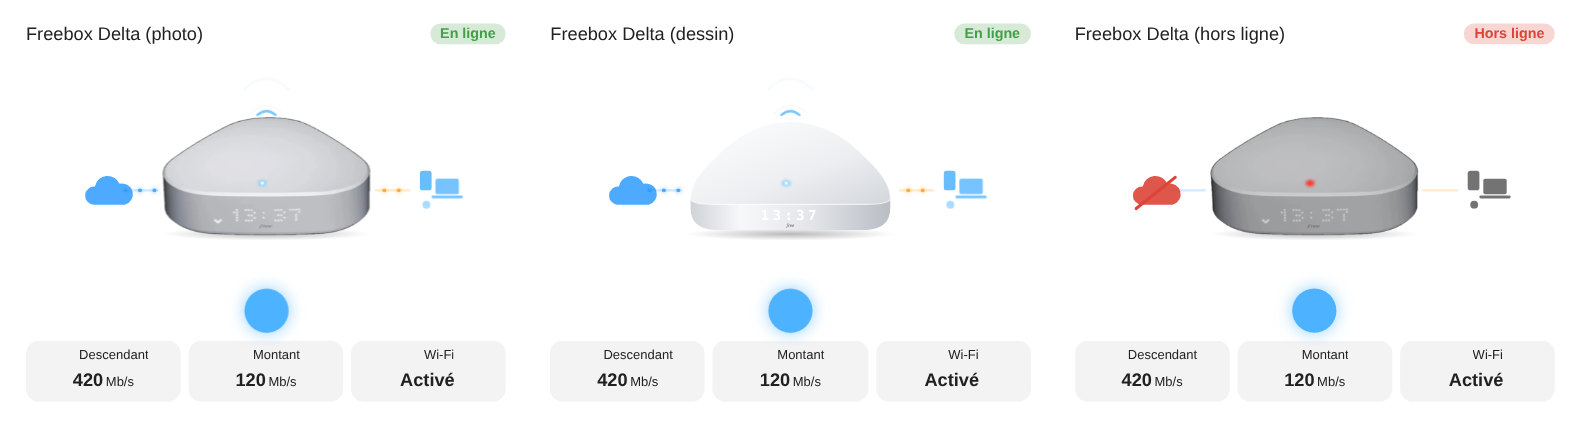
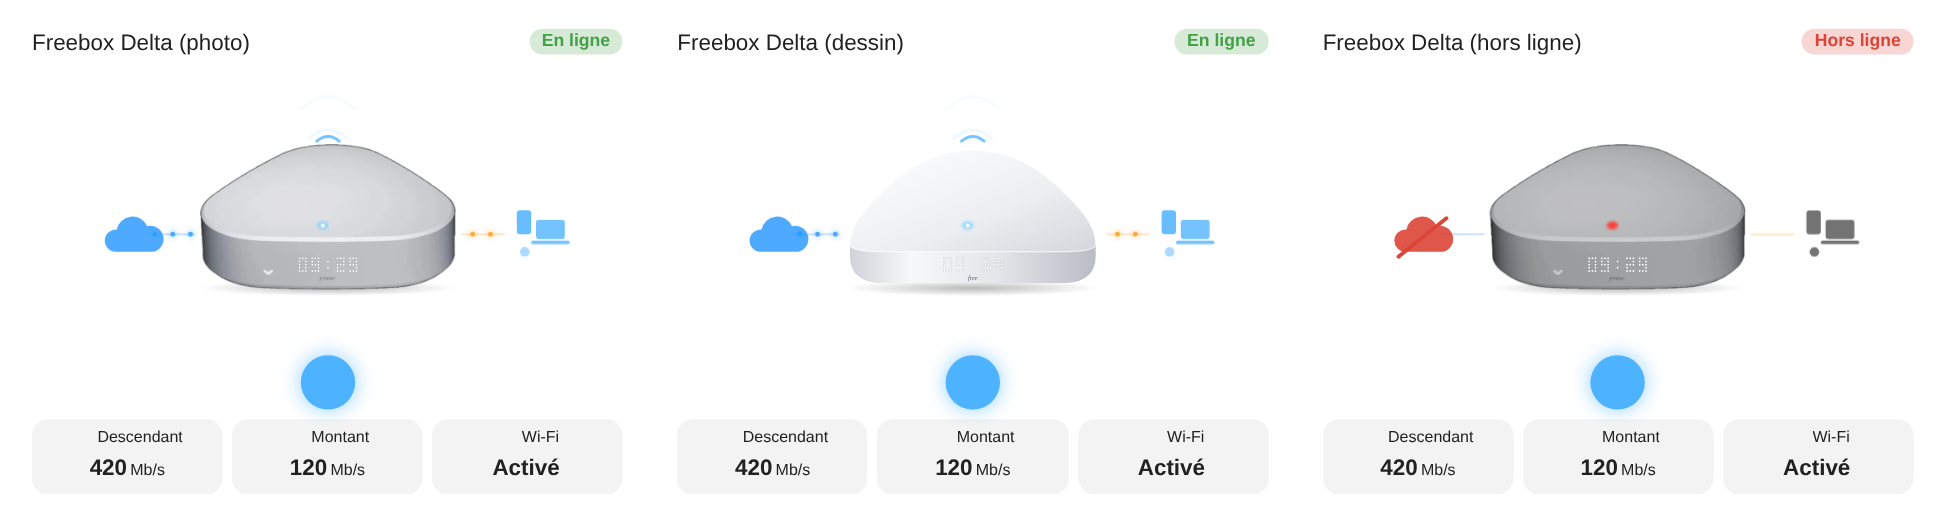
feat(internet-box): Freebox Delta dot-matrix display shows the real time
Refs #572. The fixed 13:37 of the photo is erased and replaced by a 3x5 dot
clock (HH:MM, Home Assistant time zone) refreshed every 15 s.

Claude-Session: https://claude.ai/code/session_01QpEf3XYvgfuJdkgJvTaaSo

diff --git a/dist/cards/internet-box.js b/dist/cards/internet-box.js
@@ -253,6 +253,20 @@
 
   /* Chaque modèle : photo (px de la photo = repère du dessin), emplacement dans la carte (box = x, y, w, h sur 300 × 180),
      point d'émission des ondes Wi-Fi, LED, et dessin SVG vectoriel dans le même repère que la photo. */
+  // afficheur à points de la Freebox Delta : l'heure réelle (fuseau de Home Assistant), police 3 × 5 points
+  const DOTS = { 0: '111101101101111', 1: '010110010010111', 2: '111001111100111', 3: '111001111001111', 4: '101101111001001', 5: '111100111001111', 6: '111100111101111', 7: '111001001010010', 8: '111101111101111', 9: '111101111001111' };
+  const clockDots = (txt, cx, cy, p) => {
+    const cols = [], col = (bits) => cols.push(bits); // une colonne = 5 bits (haut → bas)
+    [...txt].forEach((ch, i) => {
+      if (ch === ':') { cols.push(0, 0); col(0b01010); cols.push(0, 0); return; }
+      const g = DOTS[ch]; if (!g) return;
+      for (let x = 0; x < 3; x++) { let b = 0; for (let y = 0; y < 5; y++) if (g[y * 3 + x] === '1') b |= 1 << (4 - y); col(b); }
+      if (i < txt.length - 1 && txt[i + 1] !== ':' && ch !== ':') cols.push(0);
+    });
+    const x0 = cx - (cols.length - 1) * p / 2, y0 = cy - 2 * p;
+    return cols.map((b, i) => [0, 1, 2, 3, 4].filter((y) => b & (1 << (4 - y))).map((y) => `<circle cx="${(x0 + i * p).toFixed(1)}" cy="${(y0 + y * p).toFixed(1)}" r="2.3"/>`).join('')).join('');
+  };
+
   const MODELS = {
     freebox_pop: {
       label: 'Freebox Pop', pw: 601, ph: 335, box: [70, 56, 160, 89], wave: [150, 52],
@@ -284,13 +298,12 @@
     // freebox_delta : Freebox Delta (Free), photo détourée ; le voyant s'allume sur le symbole Wi-Fi du dôme
     freebox_delta: {
       label: 'Freebox Delta', pw: 600, ph: 341, box: [70, 54, 160, 91], wave: [150, 50],
[1 lines of base64/hex data omitted]
-      led: `<ellipse class="ledglow" cx="287.9" cy="191.0" rx="14" ry="10"/><circle class="led" cx="287.9" cy="191.0" r="4"/>`,
[1 lines of base64/hex data omitted]
+      led: `<g class="dclock" data-cx="300" data-cy="282.8" data-p="7.4"></g><ellipse class="ledglow" cx="287.9" cy="191.0" rx="14" ry="10"/><circle class="led" cx="287.9" cy="191.0" r="4"/>`,
       svg: `
         <path d="M12 232 V262 Q12 322 80 326 H520 Q588 322 588 262 V232 Z" fill="url(#ib-fbside)"/>
         <path d="M300 14 Q420 14 520 120 Q592 188 588 238 Q580 252 520 252 H80 Q20 252 12 238 Q8 188 80 120 Q180 14 300 14 Z" fill="url(#ib-fbtop)"/>
         <path d="M300 14 Q420 14 520 120 Q592 188 588 238 Q580 252 520 252 H80 Q20 252 12 238 Q8 188 80 120 Q180 14 300 14 Z" fill="none" stroke="#fff" stroke-opacity=".7" stroke-width="3"/>
-        <text x="300" y="296" text-anchor="middle" fill="#fff" font-family="ui-monospace,Menlo,Consolas,monospace" font-weight="700" font-size="40" letter-spacing="10">13:37</text>
         <text x="300" y="318" text-anchor="middle" fill="#5a5c63" font-family="Georgia,'Times New Roman',serif" font-style="italic" font-size="15">free</text>`,
     },
     router: {
@@ -435,6 +448,7 @@ svg{display:block;width:100%;max-width:calc(300px * var(--illus-scale,1));height
 .photo{transition:filter .6s}
 .offline .photo,.unavailable .photo{filter:saturate(.6) brightness(.85)}
 .unavailable .box{opacity:.6}
+.dclock circle{fill:#fff;filter:drop-shadow(0 0 1.2px rgba(60,66,76,.55))}
 .ledglow{fill:var(--ledc,#fff);opacity:0;filter:blur(3px);transition:opacity .6s}
 .led{fill:var(--ledc,#fff);opacity:0;filter:drop-shadow(0 0 3px var(--ledc,#fff));transition:opacity .6s,fill .4s}
 .online .led{--ledc:#f4fbff;opacity:1}.online .ledglow{--ledc:#7fd0ff;opacity:.85;animation:ibled 3.2s ease-in-out infinite}
@@ -554,6 +568,17 @@ ha-card.compact{display:flex;flex-direction:column;padding:6px}
       if (this._hass) this._render();
     }
     set hass(h) { const ch = this._c && window.applianceChanged(this, h, this._c); this._hass = h; if (ch) this._render(); }
+    connectedCallback() { this._clockTick = setInterval(() => this._clock(), 15000); this._clock(); }
+    disconnectedCallback() { clearInterval(this._clockTick); }
+    // heure de l'afficheur à points (modèles qui en ont un) : HH:MM, fuseau de Home Assistant
+    _clock() {
+      const g = this._root && this._root.querySelector('.dclock'); if (!g) return;
+      let t;
+      try { t = new Intl.DateTimeFormat('en-GB', { hour: '2-digit', minute: '2-digit', hour12: false, timeZone: (this._hass && this._hass.config && this._hass.config.time_zone) || undefined }).format(new Date()); }
+      catch (e) { const d = new Date(); t = `${String(d.getHours()).padStart(2, '0')}:${String(d.getMinutes()).padStart(2, '0')}`; }
+      if (g.dataset.t === t) return;
+      g.dataset.t = t; g.innerHTML = clockDots(t, Number(g.dataset.cx), Number(g.dataset.cy), Number(g.dataset.p));
+    }
     getCardSize() { return 5; }
     getGridOptions() { return { columns: 12, min_columns: 3, rows: 'auto', min_rows: 1 }; }
 
@@ -622,6 +647,7 @@ ha-card.compact{display:flex;flex-direction:column;padding:6px}
       if (!this._built || this._model !== MODELS[modelKey(this._c.model)] || this._drawing !== (!MODELS[modelKey(this._c.model)].img || /^(svg|drawing|dessin)$/i.test(String(this._c.illustration || '')))) this._build();
       const c = this._c, r = this._root, card = this._card, m = this._model;
       const st = this._state();
+      this._clock();
       const wifiS = this._st(c.entity_wifi), wifiOn = !wifiS || String(wifiS.state).toLowerCase() === 'on';
       card.className = `${st}${wifiOn ? ' wifion' : ''}${c.animations === false ? ' noanim' : ''}${c.compact === true ? ' compact' : ''}`;
 

diff --git a/src/cards/internet-box.js b/src/cards/internet-box.js
@@ -36,6 +36,20 @@
 
   /* Chaque modèle : photo (px de la photo = repère du dessin), emplacement dans la carte (box = x, y, w, h sur 300 × 180),
      point d'émission des ondes Wi-Fi, LED, et dessin SVG vectoriel dans le même repère que la photo. */
+  // afficheur à points de la Freebox Delta : l'heure réelle (fuseau de Home Assistant), police 3 × 5 points
+  const DOTS = { 0: '111101101101111', 1: '010110010010111', 2: '111001111100111', 3: '111001111001111', 4: '101101111001001', 5: '111100111001111', 6: '111100111101111', 7: '111001001010010', 8: '111101111101111', 9: '111101111001111' };
+  const clockDots = (txt, cx, cy, p) => {
+    const cols = [], col = (bits) => cols.push(bits); // une colonne = 5 bits (haut → bas)
+    [...txt].forEach((ch, i) => {
+      if (ch === ':') { cols.push(0, 0); col(0b01010); cols.push(0, 0); return; }
+      const g = DOTS[ch]; if (!g) return;
+      for (let x = 0; x < 3; x++) { let b = 0; for (let y = 0; y < 5; y++) if (g[y * 3 + x] === '1') b |= 1 << (4 - y); col(b); }
+      if (i < txt.length - 1 && txt[i + 1] !== ':' && ch !== ':') cols.push(0);
+    });
+    const x0 = cx - (cols.length - 1) * p / 2, y0 = cy - 2 * p;
+    return cols.map((b, i) => [0, 1, 2, 3, 4].filter((y) => b & (1 << (4 - y))).map((y) => `<circle cx="${(x0 + i * p).toFixed(1)}" cy="${(y0 + y * p).toFixed(1)}" r="2.3"/>`).join('')).join('');
+  };
+
   const MODELS = {
     freebox_pop: {
       label: 'Freebox Pop', pw: 601, ph: 335, box: [70, 56, 160, 89], wave: [150, 52],
@@ -67,13 +81,12 @@
     // freebox_delta : Freebox Delta (Free), photo détourée ; le voyant s'allume sur le symbole Wi-Fi du dôme
     freebox_delta: {
       label: 'Freebox Delta', pw: 600, ph: 341, box: [70, 54, 160, 91], wave: [150, 50],
[1 lines of base64/hex data omitted]
-      led: `<ellipse class="ledglow" cx="287.9" cy="191.0" rx="14" ry="10"/><circle class="led" cx="287.9" cy="191.0" r="4"/>`,
[1 lines of base64/hex data omitted]
+      led: `<g class="dclock" data-cx="300" data-cy="282.8" data-p="7.4"></g><ellipse class="ledglow" cx="287.9" cy="191.0" rx="14" ry="10"/><circle class="led" cx="287.9" cy="191.0" r="4"/>`,
       svg: `
         <path d="M12 232 V262 Q12 322 80 326 H520 Q588 322 588 262 V232 Z" fill="url(#ib-fbside)"/>
         <path d="M300 14 Q420 14 520 120 Q592 188 588 238 Q580 252 520 252 H80 Q20 252 12 238 Q8 188 80 120 Q180 14 300 14 Z" fill="url(#ib-fbtop)"/>
         <path d="M300 14 Q420 14 520 120 Q592 188 588 238 Q580 252 520 252 H80 Q20 252 12 238 Q8 188 80 120 Q180 14 300 14 Z" fill="none" stroke="#fff" stroke-opacity=".7" stroke-width="3"/>
-        <text x="300" y="296" text-anchor="middle" fill="#fff" font-family="ui-monospace,Menlo,Consolas,monospace" font-weight="700" font-size="40" letter-spacing="10">13:37</text>
         <text x="300" y="318" text-anchor="middle" fill="#5a5c63" font-family="Georgia,'Times New Roman',serif" font-style="italic" font-size="15">free</text>`,
     },
     router: {
@@ -218,6 +231,7 @@ svg{display:block;width:100%;max-width:calc(300px * var(--illus-scale,1));height
 .photo{transition:filter .6s}
 .offline .photo,.unavailable .photo{filter:saturate(.6) brightness(.85)}
 .unavailable .box{opacity:.6}
+.dclock circle{fill:#fff;filter:drop-shadow(0 0 1.2px rgba(60,66,76,.55))}
 .ledglow{fill:var(--ledc,#fff);opacity:0;filter:blur(3px);transition:opacity .6s}
 .led{fill:var(--ledc,#fff);opacity:0;filter:drop-shadow(0 0 3px var(--ledc,#fff));transition:opacity .6s,fill .4s}
 .online .led{--ledc:#f4fbff;opacity:1}.online .ledglow{--ledc:#7fd0ff;opacity:.85;animation:ibled 3.2s ease-in-out infinite}
@@ -337,6 +351,17 @@ ha-card.compact{display:flex;flex-direction:column;padding:6px}
       if (this._hass) this._render();
     }
     set hass(h) { const ch = this._c && window.applianceChanged(this, h, this._c); this._hass = h; if (ch) this._render(); }
+    connectedCallback() { this._clockTick = setInterval(() => this._clock(), 15000); this._clock(); }
+    disconnectedCallback() { clearInterval(this._clockTick); }
+    // heure de l'afficheur à points (modèles qui en ont un) : HH:MM, fuseau de Home Assistant
+    _clock() {
+      const g = this._root && this._root.querySelector('.dclock'); if (!g) return;
+      let t;
+      try { t = new Intl.DateTimeFormat('en-GB', { hour: '2-digit', minute: '2-digit', hour12: false, timeZone: (this._hass && this._hass.config && this._hass.config.time_zone) || undefined }).format(new Date()); }
+      catch (e) { const d = new Date(); t = `${String(d.getHours()).padStart(2, '0')}:${String(d.getMinutes()).padStart(2, '0')}`; }
+      if (g.dataset.t === t) return;
+      g.dataset.t = t; g.innerHTML = clockDots(t, Number(g.dataset.cx), Number(g.dataset.cy), Number(g.dataset.p));
+    }
     getCardSize() { return 5; }
     getGridOptions() { return { columns: 12, min_columns: 3, rows: 'auto', min_rows: 1 }; }
 
@@ -405,6 +430,7 @@ ha-card.compact{display:flex;flex-direction:column;padding:6px}
       if (!this._built || this._model !== MODELS[modelKey(this._c.model)] || this._drawing !== (!MODELS[modelKey(this._c.model)].img || /^(svg|drawing|dessin)$/i.test(String(this._c.illustration || '')))) this._build();
       const c = this._c, r = this._root, card = this._card, m = this._model;
       const st = this._state();
+      this._clock();
       const wifiS = this._st(c.entity_wifi), wifiOn = !wifiS || String(wifiS.state).toLowerCase() === 'on';
       card.className = `${st}${wifiOn ? ' wifion' : ''}${c.animations === false ? ' noanim' : ''}${c.compact === true ? ' compact' : ''}`;
 

diff --git a/docs/cards/internet-box.md b/docs/cards/internet-box.md
@@ -2,7 +2,7 @@
 
 `custom:appliance-internet-box-card`
 
-**Internet box** with a cut-out photo or a vector SVG drawing of your model (`model`): `freebox_pop` (Freebox Pop, default), `freebox_ultra` (Freebox Ultra, the light comes on around the round button), `freebox_delta` (Freebox Delta, the light comes on on the Wi-Fi symbol of the dome), `sfr_box` (SFR Box), or a Wi-Fi router: `router` (generic router with four antennas, drawn), `asus_gt_be98` (ASUS ROG Rapture GT-BE98), `asus_rt_ac88u` (ASUS RT-AC88U), `asus_rt_be92u` (ASUS RT-BE92U), `asus_rt_ac68u` (ASUS RT-AC68U) and `xiaomi_ax3000` (Xiaomi Mesh System AX3000 NE, white tower) and `tplink_deco_m4` (TP-Link Deco M4 mesh unit, white cylinder with its black grille: the light ring on top comes on). Choose the drawing with `illustration: svg` (default `photo`; `router` is always drawn, and the other routers use the generic drawing when `illustration: svg`).
+**Internet box** with a cut-out photo or a vector SVG drawing of your model (`model`): `freebox_pop` (Freebox Pop, default), `freebox_ultra` (Freebox Ultra, the light comes on around the round button), `freebox_delta` (Freebox Delta, the light comes on on the Wi-Fi symbol of the dome and its dot-matrix display shows the real time, in the Home Assistant time zone), `sfr_box` (SFR Box), or a Wi-Fi router: `router` (generic router with four antennas, drawn), `asus_gt_be98` (ASUS ROG Rapture GT-BE98), `asus_rt_ac88u` (ASUS RT-AC88U), `asus_rt_be92u` (ASUS RT-BE92U), `asus_rt_ac68u` (ASUS RT-AC68U) and `xiaomi_ax3000` (Xiaomi Mesh System AX3000 NE, white tower) and `tplink_deco_m4` (TP-Link Deco M4 mesh unit, white cylinder with its black grille: the light ring on top comes on). Choose the drawing with `illustration: svg` (default `photo`; `router` is always drawn, and the other routers use the generic drawing when `illustration: svg`).
 
 <p align="center"><img src="../internet-box-deco-m4.png" width="560" alt="TP-Link Deco M4 mesh, online and offline"></p>
 
